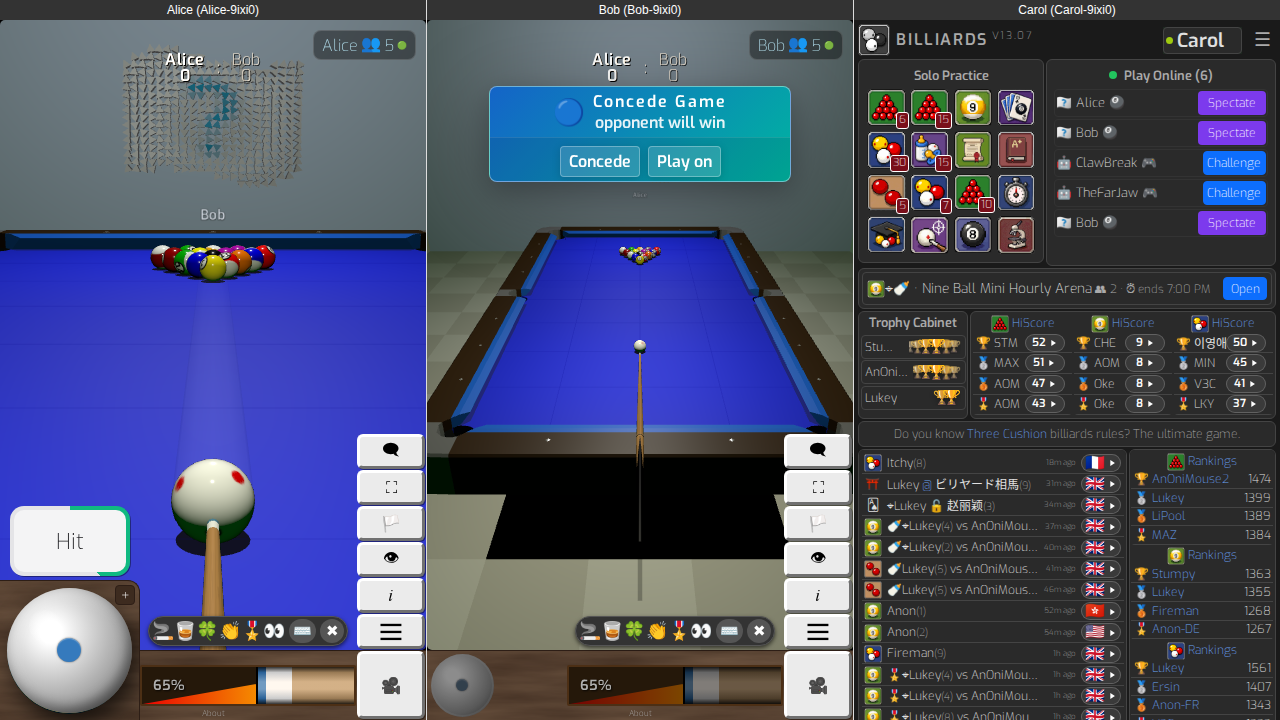
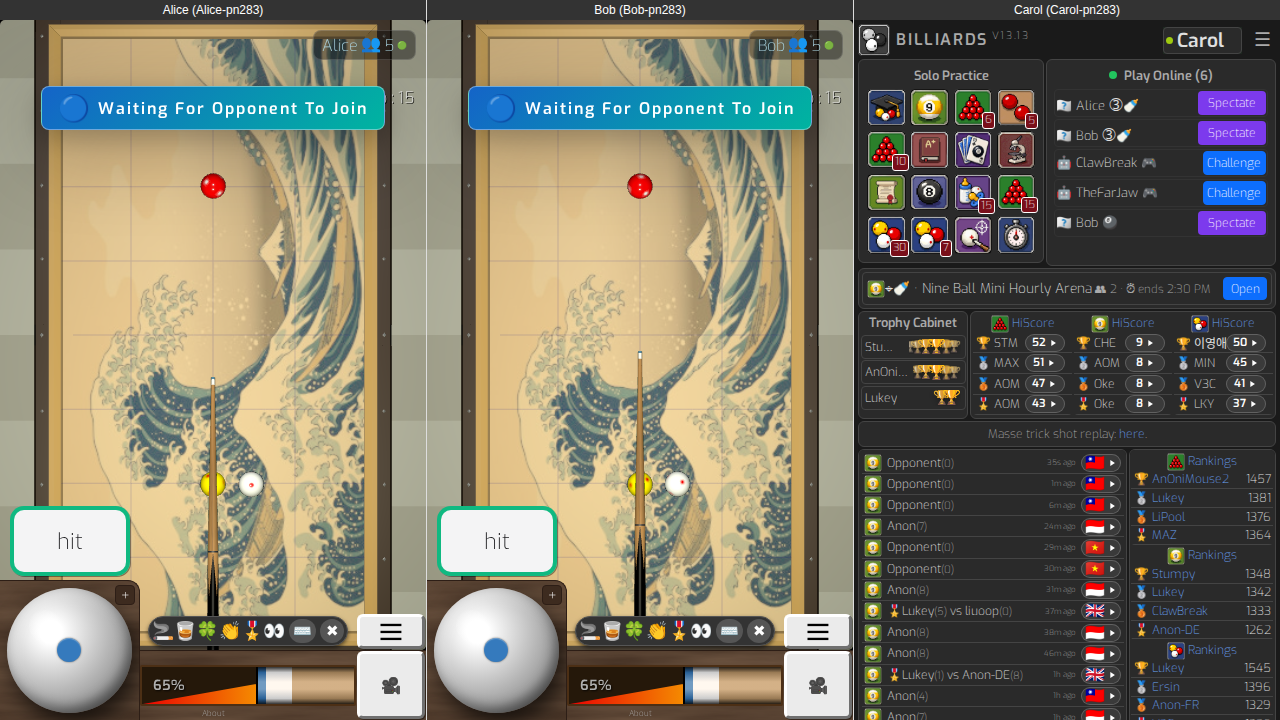
test

diff --git a/playwright/e2eLaunchFromGameAccept.spec.ts b/playwright/e2eLaunchFromGameAccept.spec.ts
@@ -14,11 +14,20 @@ const STALE_BUNDLE = process.env.STALE_LOBBY_JS || '/tmp/precodec-lobby.js';
 // Without it those two tests skip, so the suite still runs on a clean checkout.
 const hasStaleBundle = existsSync(STALE_BUNDLE);
 
+// Page console output is noisy, so it is only forwarded with PW_DEBUG=1.
+const DEBUG_CONSOLE = !!process.env.PW_DEBUG;
+
 const WAIT = 10000;
 
 const gameUrl = (userId: string, userName: string) =>
   `${GAME_BASE}?ruletype=eightball&userId=${encodeURIComponent(userId)}&userName=${encodeURIComponent(userName)}` +
   `&lod=4&lobbyUrl=ws://localhost:80&test=1`;
+
+function forwardConsole(page: Page, label: 'A' | 'B') {
+  if (!DEBUG_CONSOLE) return;
+  page.on('console', (m) => console.log(`[${label}:${m.type()}] ${m.text()}`));
+  page.on('pageerror', (e) => console.log(`[${label}:error] ${e.message}`));
+}
 
 /** Serves the pre-codec (1.42-era) lobby bundle, i.e. a cached / long-open tab. */
 async function serveStaleLobby(ctx: BrowserContext) {
@@ -98,20 +107,17 @@ function ids(label: string) {
 }
 
 test.describe('launch from game accept', () => {
-  test.setTimeout(90000);
-
   test('two in-game accept handoffs in a row (same pair, within nchan retention)', async ({ browser }) => {
     const { aliceId, bobId, bobName } = ids('x');
     const a = await (await browser.newContext()).newPage();
     const b = await (await browser.newContext()).newPage();
-    a.on('console', (m) => console.log(`[A:${m.type()}] ${m.text()}`));
-    b.on('console', (m) => console.log(`[B:${m.type()}] ${m.text()}`));
+    forwardConsole(a, 'A');
+    forwardConsole(b, 'B');
 
     await challengeAndAcceptFromGame(a, b, aliceId, bobId, bobName, 'none');
     await expect.poll(() => a.url(), { timeout: WAIT }).toMatch(/tableId=/);
     const first = new URL(a.url()).searchParams.get('tableId');
     expect(new URL(b.url()).searchParams.get('tableId')).toBe(first);
-    console.log(`round 1 table: ${first}`);
 
     // Both come back out of the first game: Alice returns to the lobby, Bob to
     // a solo game (a game page whose presence has no tableId, so he stays
@@ -122,7 +128,6 @@ test.describe('launch from game accept', () => {
 
     await challengeFromLobby(a, b, bobName);
     await b.locator('#challengeAccept').click();
-    console.log(`round 2 B url after accept: ${b.url()}`);
     await acceptHandoffIfAsked(a);
 
     await expect.poll(() => a.url(), { timeout: WAIT }).toMatch(/tableId=/);
@@ -139,14 +144,13 @@ test.describe('launch from game accept', () => {
     const { aliceId, bobId, bobName } = ids('r');
     const a = await (await browser.newContext()).newPage();
     const b = await (await browser.newContext()).newPage();
-    a.on('console', (m) => console.log(`[A:${m.type()}] ${m.text()}`));
-    b.on('console', (m) => console.log(`[B:${m.type()}] ${m.text()}`));
+    forwardConsole(a, 'A');
+    forwardConsole(b, 'B');
 
     await challengeAndAcceptFromGame(a, b, aliceId, bobId, bobName, 'none');
     await expect.poll(() => a.url(), { timeout: WAIT }).toMatch(/tableId=/);
     const first = new URL(a.url()).searchParams.get('tableId');
     expect(new URL(b.url()).searchParams.get('tableId')).toBe(first);
-    console.log(`round 1 table: ${first}`);
 
     // The game's Rematch button: getLobbyUrl() + opponent params + nextTurnId.
     const handoff = (me: string, myName: string, opponentId: string, opponentName: string, nextTurnId: string) =>
@@ -171,14 +175,11 @@ test.describe('launch from game accept', () => {
       const { aliceId, bobId, bobName } = ids(staleSide);
       const a = await (await browser.newContext()).newPage();
       const b = await (await browser.newContext()).newPage();
-      a.on('console', (m) => console.log(`[A:${m.type()}] ${m.text()}`));
-      b.on('console', (m) => console.log(`[B:${m.type()}] ${m.text()}`));
-      a.on('pageerror', (e) => console.log(`[A:error] ${e.message}`));
-      b.on('pageerror', (e) => console.log(`[B:error] ${e.message}`));
+      forwardConsole(a, 'A');
+      forwardConsole(b, 'B');
 
       await challengeAndAcceptFromGame(a, b, aliceId, bobId, bobName, staleSide);
 
-      console.log(`B url after accept: ${b.url()}`);
       await expect.poll(() => a.url(), { timeout: WAIT }).toMatch(/tableId=/);
       await expect.poll(() => b.url(), { timeout: WAIT }).toMatch(/tableId=/);
       expect(new URL(a.url()).searchParams.get('tableId')).toBe(new URL(b.url()).searchParams.get('tableId'));

diff --git a/playwright/userId-validation.spec.ts b/playwright/userId-validation.spec.ts
@@ -2,7 +2,6 @@ import { test, expect } from '@playwright/test';
 
 test.describe('User ID Validation', () => {
   test('should fallback to random ID if forced userId is less than 3 chars', async ({ page }) => {
-    test.setTimeout(5000);
     // Attempt to force a 1-char userId
     await page.goto('http://localhost:80/lobby.html?userId=a&userName=Alice');
     
@@ -20,7 +19,6 @@ test.describe('User ID Validation', () => {
   });
 
   test('should fallback to random ID if forced userId is empty', async ({ page }) => {
-    test.setTimeout(5000);
     // Attempt to force an empty userId
     await page.goto('http://localhost:80/lobby.html?userId=&userName=Alice');
     
@@ -37,7 +35,6 @@ test.describe('User ID Validation', () => {
   });
 
   test('should fallback to random ID if forced userId is only whitespace', async ({ page }) => {
-    test.setTimeout(5000);
     // Attempt to force a whitespace-only userId
     await page.goto('http://localhost:80/lobby.html?userId=%20%20&userName=Alice');
     
@@ -54,7 +51,6 @@ test.describe('User ID Validation', () => {
   });
 
   test('should accept userId with 3 or more characters', async ({ page }) => {
-    test.setTimeout(5000);
     // Use a valid 3-char userId
     await page.goto('http://localhost:80/lobby.html?userId=abc&userName=Alice');
     

diff --git a/playwright/e2eRematchAndBackToLobby.spec.ts b/playwright/e2eRematchAndBackToLobby.spec.ts
@@ -8,10 +8,6 @@ import {
 } from './setupHelpers';
 
 test.describe('E2E rematch', () => {
-  // The iframe setup (two lobbies plus the game page's assets) takes most of the
-  // budget on a loaded machine, so leave room for the concede/rematch steps too.
-  test.setTimeout(45000);
-
   test.afterEach(async ({ page }, testInfo) => {
     if (testInfo.status !== 'passed') await page.screenshot({ path: `screenshots/${testInfo.title.replace(/[^a-z0-9]+/gi, '-')}-fail.png`, fullPage: true });
   });

diff --git a/playwright/e2eAcceptHandoff.spec.ts b/playwright/e2eAcceptHandoff.spec.ts
@@ -9,8 +9,6 @@ import { getFrame, HANDOFF_TIMEOUT, TEST_URL, VISIBILITY_TIMEOUT } from './setup
  * it from the challenger's own pending challenge and replays the redirect.
  */
 test.describe('in-game accept handoff', () => {
-  test.setTimeout(45000);
-
   /** The tableId the challenger is currently offering. */
   const offeredTableId = (frame: import('@playwright/test').Frame) =>
     frame.evaluate(() => {

diff --git a/playwright/e2eInGameChallenge.spec.ts b/playwright/e2eInGameChallenge.spec.ts
@@ -3,8 +3,6 @@ import { confirmHandoffIfAsked, getFrame, HANDOFF_TIMEOUT, TEST_URL, VISIBILITY_
 import { reduce, INITIAL_STATE } from '../src/client/utils.js';
 
 test.describe('E2E rematch', () => {
-  test.setTimeout(45000);
-
   const shortWait = 250;
 
   test('alice plays solo, bob challenges, alice accepts from game, both go to new game', async ({ page }) => {

diff --git a/playwright/iframee2e.spec.ts b/playwright/iframee2e.spec.ts
@@ -3,8 +3,6 @@ import { getFrame, TEST_URL, VISIBILITY_TIMEOUT } from './setupHelpers';
 import { reduce, INITIAL_STATE } from '../src/client/utils.js';
 
 test.describe('E2E rematch', () => {
-  test.setTimeout(20000);
-
   const shortWait = 250;
 
   test('alice plays solo, bob challenges, alice accepts from game, both go to new game', async ({ page }) => {

diff --git a/playwright/e2eBothRematch.spec.ts b/playwright/e2eBothRematch.spec.ts
@@ -7,8 +7,6 @@ import {
 } from './setupHelpers';
 
 test.describe('E2E rematch', () => {
-  test.setTimeout(20000);
-
   test('concede and both rematch automatically starts new game', async ({ page }) => {
 
     const { aliceFrame, bobFrame } = await setupPlayersInGame(page);

diff --git a/playwright/e2eBothReturnToLobby.spec.ts b/playwright/e2eBothReturnToLobby.spec.ts
@@ -7,8 +7,6 @@ import {
 } from './setupHelpers';
 
 test.describe('E2E rematch', () => {
-  test.setTimeout(20000);
-
   test('alice sees bob, bob sees alice after game', async ({ page }) => {
 
     const { aliceFrame, bobFrame } = await setupPlayersInGame(page);

diff --git a/playwright.config.ts b/playwright.config.ts
@@ -8,6 +8,8 @@ export default defineConfig({
     baseURL: 'http://localhost',
     trace: 'on-first-retry',
     screenshot: 'only-on-failure',
+    actionTimeout: 5000,
+    navigationTimeout: 15000,
   },
   projects: [
     {

diff --git a/src/client/utils.js b/src/client/utils.js
@@ -1,7 +1,7 @@
 
 import { html } from 'lit';
 
-export const CLIENTVERSION = 1311;
+export const CLIENTVERSION = 1313;
 export const formatVersion = (v) => `v${Math.floor(v / 100)}.${String(v % 100).padStart(2, '0')}`;
 
 
